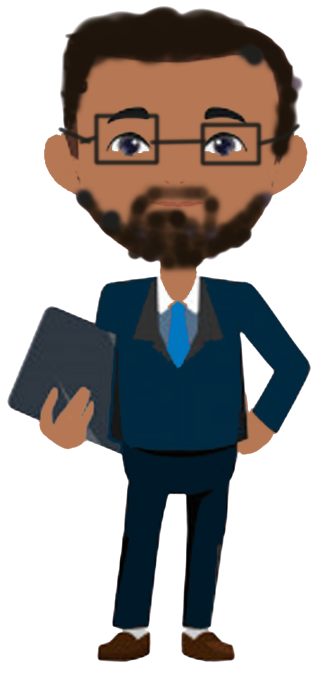
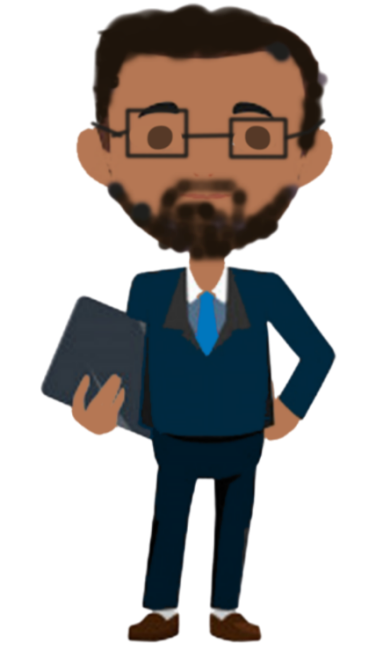
updated quiz + officers

Changed region(s): [[0.0303, 0.0, 0.9394, 1.0]]

diff --git a/impactHack/quiz/FSOTrackQuiz/js/results.js b/impactHack/quiz/FSOTrackQuiz/js/results.js
@@ -7,7 +7,7 @@ const results = {
     "A score above 80% indicates that you are an excellent match for the Consular Affairs track! You'd be a perfect fit on the Consular Affairs team!",
     "Consular officers facilitate adoptions, help evacuate Americans, and combat fraud to protect our borders and fight human trafficking. Consular officers touch people’s lives in important ways, often reassuring families in crisis.",
     "Just like you, Consular Officers excel in picking up local customs as well as cultural, economic and political conditions. Consular officers make prompt, informed decisions that affect the lives of not only Americans abroad but also other foreign citizens. Consular officers also work on keeping Washington up to date on current consular issues which might include fraud trends, visa workloads, or delicate American citizen cases involving victims of crime or child abductions.",
-    "../../assets/blankMan.png"
+    "../../assets/officers/fso_consular.png"
   ],
   "Economic Affairs Officer (FSO)": [
     "An interest score of below 50% indicates that Economic Affairs might not be the best choice for you.",
@@ -16,7 +16,7 @@ const results = {
     "A score above 80% indicates that you are an excellent match for an Economic Affairs position! You'd be a perfect fit on the team!",
     "Economic Officers work with foreign governments and other US Governmental agencies on technology, science, economic, trade, energy, and environmental issues both domestically and overseas.",
     "Just like you, Economic Officers excel at collaborating with a wide variety of government officials, business leaders, international organizations and researchers. They are also very good at developing strong relationships with important economic figures. Economic Officers love spending their time negotiating and maintaining positive economic and trade relations between the US and other countries.",
-        "../../assets/blankMan.png"
+        "../../assets/officers/fso_econ.png"
   ],
   "Management Affairs Officer (FSO)":  [
     "An interest score of below 50% indicates that Management Affairs might not be the best track for you.",
@@ -25,7 +25,7 @@ const results = {
     "A score above 80% indicates that you are an excellent match for a Management Officer! You'd truly be a perfect fit!",
     "Management officers are resourceful, creative, action-oriented “go to” leaders responsible for all embassy operations from real estate to people to budget.",
     "Just like you, Management Officers lead and inspire others. They're able to stay calm in fast-paced, mission critical environments while they solve multidisciplinary problems. Management Affairs Diplomats also encourage professional growth in other staff.",
-        "../../assets/blankMan.png"
+        "../../assets/officers/fso_management.png"
   ],
     "Political Affairs Officer (FSO)":  [
     "An interest score of below 50% indicates that Political Affairs might not be the best place for you.",
@@ -34,7 +34,7 @@ const results = {
     "A score above 80% indicates that you are an excellent match for a Political Affairs position! You'd be a perfect fit on the team!",
     "Political Officers analyze host country political events and must be able to negotiate and communicate effectively with all levels of foreign government officials.",
     "Just like you, Political Officers are able to identify and nurture strong relationships with informed country individuals, who are able to provide thoughtful and sometimes advance information. Political Diplomats excel at reporting and explaining foreign events under time pressure. Political officers enjoy monitoring the political climate of their foreign post.",
-        "../../assets/blankMan.png"
+        "../../assets/officers/fso_political.png"
   ],
   "Public Diplomacy Officer (FSO)":  [
     "An interest score of below 50% indicates that Public Diplomacy might not be the best post for you.",
@@ -43,7 +43,7 @@ const results = {
     "A score above 80% indicates that you are an excellent match for a Public Diplomat position! You'd be a perfect fit on the team!",
     "Public Diplomacy Officers engage, inform, and influence opinion leaders, local non-governmental groups, the next generation of leaders, academics, think tanks, government officials and the full range of civil society in order to promote mutual understanding and support for US policy goals.",
     "Just like you, Public Diplomacy Officers excel at bridging cultures and promoting shared understanding between the US and other nations through strong interpersonal skills. These officers are able to innovatively discover new technologies to better communicate US stances and programs with host country individuals. Public Diplomacy Officers enjoy networking and collaborating with host nation contacts to shape the public message and perceptions about the United States.",
-        "../../assets/blankMan.png"
+        "../../assets/officers/fso_pd.png"
   ],
     "Medical and Health Specialist (FSS)": [
     "An interest score of below 50% indicates that the role of Medical and Health Specialist might not be the best pick for you.",
@@ -51,7 +51,8 @@ const results = {
      "A score between 70% to 80% implies that you show significant interest in the Medical and Health Specialist track! You would make a great Medical and Health Specialist!",
     "A score above 80% indicates that you are an excellent match for the Medical and Health Specialist track! You'd be a perfect fit on the team!",
     "Medical and Health Specialists provide primary medical and psychiatric care to U.S. government employees living abroad as well as and their families.",
-    "Just like you, Medical and Health Specialist make prompt, informed decisions that affect the lives of many people. Medical and Health Specialists have the tenacity to help people out and save lives.",    "../../assets/blankMan.png"
+    "Just like you, Medical and Health Specialist make prompt, informed decisions that affect the lives of many people. Medical and Health Specialists have the tenacity to help people out and save lives.",
+    "../../assets/officers/fss_med.png"
   ],
   "Information Technology Specialist (FSS)": [
     "An interest score of below 50% indicates that IT might not be the best choice for you.",
@@ -60,7 +61,7 @@ const results = {
     "A score above 80% indicates that you are an excellent match for an IT position! You'd be a perfect fit on the Information Technology Specialist team!",
     "Information Technology Specialists operate the Department of State’s worldwide information technology infrastructure, including PC local and wide area networks, telecommunications systems, telephone and UHF/VHF programs, and diplomatic pouch and mail services.",
     "Just like you, IT Specialists are technologically or analytically inclined. They excel when it comes to fixing things up using the power of technology."
-     , "../../assets/blankMan.png"],
+     , "../../assets/officers/fss_it.png"],
   "Engineering Specialist (FSS)":  [
     "An interest score of below 50% indicates that Engineering might not be the best track for you.",
     "A score between 50% to 70% implies that you do show some interest in the Engineering track. You'd be a fair match for an Engineering role!",
@@ -68,7 +69,7 @@ const results = {
     "A score above 80% indicates that you'd be a fantastic Engineering Specialist!",
     "Engineering Specialists facilitate the inner workings of the Department of State’s international operations.",
     "Just like you, Engineering Specialists solve multidisciplinary problems, are action-oriented, and love to fix things!"
-  ,     "../../assets/blankMan.png"],
+  ,     "../../assets/officers/fss_eng.png"],
    "International Programs and English Language Specialist (FSS)":  [
     "An interest score of below 50% indicates that International Programs and English Language Specialist might not be the best role for you.",
     "A score between 50% to 70% implies that you do show some interest in the International Programs and English Language Specialist track. You'd be a fair match for the role!",
@@ -76,7 +77,7 @@ const results = {
     "A score above 80% indicates that you are an excellent match for a International Programs and English Language Specialist position! You'd be a perfect fit on the team!",
     "International Programs and English Language Specialists promote and develop overseas educational opportunities, often in conjunction with consulates or embassies.",
     "Just like you, International Programs and English Language Specialists have a love for language. They have great writing skills and are very organized."
-  ,     "../../assets/blankMan.png"],
+  ,     "../../assets/officers/fss_lang.png"],
   "Law Enforcement and Security Specialist (FSS)":  [
     "An interest score of below 50% indicates that the Law Enforcement and Security Specialization might not be the right for you.",
     "A score between 50% to 70% implies that you do show some interest in the Law Enforcement and Security Specialist track. You'd be a fair match for a Law Enforcement and Security Specialist!",
@@ -84,7 +85,7 @@ const results = {
     "A score above 80% indicates that Law Enforcement and Security Specialist is a perfect match for you! You'd be a perfect fit on the team!",
     "Law Enforcement and Security Specialists ensure the safety and wellbeing of U.S. Department of State facilities and personnel abroad.",
     "Just like you, Law Enforcement and Security Specialists have a drive to ensure the security of things. They are action-oriented and are able to keep their calm in stressful situations."
- ,    "../../assets/blankMan.png" ],
+ ,    "../../assets/officers/fss_security.png" ],
     "Foreign Affairs Officer (CSO)": [
     "An interest score of below 50% indicates that Foreign Affairs might not be the best pick for you.",
     "A score between 50% to 70% implies that you do show some interest in the Foreign Affairs track. You'd be a fair match for a Foreign Affairs role!",
@@ -92,7 +93,7 @@ const results = {
     "A score above 80% indicates that you are an excellent match for the Foreign Affairs track! You'd be a perfect fit on the Foreign Affairs team!",
     "Foreign affairs officers analyse foreign affairs policies and operations, and write reports outlining their analyses in a clear and comprehensible manner. They communicate with parties who benefit from their findings.",
     "Just like you, foreign affairs officers have great writing and communication skills. They are intelligent individuals with a drive to make an impact."
- ,    "../../assets/blankMan.png" ],
+ ,    "../../assets/officers/cso_fa.png" ],
   "Information Technology Management Officer (CSO)": [
     "An interest score of below 50% indicates that IT might not be the best choice for you.",
     "A score between 50% to 70% implies that you do show some interest in the IT Management track. You'd be a fair match for an IT role!",
@@ -100,7 +101,7 @@ const results = {
     "A score above 80% indicates that you are an excellent match for an Information Technology Management position! You'd be a perfect fit on the team!",
     "Information Technology Management Officers manage, supervise, lead, administer, develop, deliver, and support information technology (IT) systems and services.",
     "Just like you, Information Technology Management Officers are organized and are great managers and communicators. They also tend to have an inclination towards technology."
-  ,    "../../assets/blankMan.png"],
+  ,    "../../assets/officers/cso_it.png"],
   "Intelligence Series Officer (CSO)":  [
     "An interest score of below 50% indicates that Intelligence Series Officer might not be the best track for you.",
     "A score between 50% to 70% implies that you do show some interest in the Intelligence Series track. You'd be a fair match for a Intelligence Series role!",
@@ -108,7 +109,7 @@ const results = {
     "A score above 80% indicates that you are an excellent match for an Intelligence Series Officer! You'd truly be a perfect fit!",
     "Intelligence series officers advise on, administer, supervise, or perform work in the collection, analysis, evaluation, interpretation, and dissemination of information in foreign and domestic areas that directly or indirectly affect the national security.",
     "Just like you, Intelligence series officers are resourceful, creative, action-oriented. They tend to have stellar analysis skills and are great at collecting data too. They're also keen to build a secure environment for the Department of State."
- ,    "../../assets/blankMan.png" ],
+ ,    "../../assets/officers/cso_intelligence.png" ],
     "Public Affairs Officer (CSO)":  [
     "An interest score of below 50% indicates that Political Affairs might not be the best place for you.",
     "A score between 50% to 70% implies that you do show some interest in the Political Affairs track. You'd be a fair match for a Political Affairs role!",
@@ -116,7 +117,7 @@ const results = {
     "A score above 80% indicates that you are an excellent match for a Political Affairs position! You'd be a perfect fit on the team!",
     "Public Affairs officers primarily formulate policy and facilitate communication between Federal agencies and members of the public using print and digital media.",
     "Just like you, Public Affairs Officers are thoughtful and have a flair for communication and organization. They might also have great writing and people-skills."
-  ,    "../../assets/blankMan.png"],
+  ,    "../../assets/officers/cso_public.png"],
   "Language Specialist (CSO)":  [
     "An interest score of below 50% indicates that a Language Specialist might not be the best post for you.",
     "A score between 50% to 70% implies that you do show some interest in the Language Specialist track. You'd be a fair match for a Language Specialist role!",
@@ -124,6 +125,6 @@ const results = {
     "A score above 80% indicates that you are an excellent match for the a Language Specialistposition! You'd be a perfect fit on the team!",
     "Language Specialists work in the translation and interpretation of foreign language physical and digital media into English and vice versa.", 
     "Just like you, Language specialists have a love for language. They are dedicated and strive to make an impact with the skills they have."
-  ,    "../../assets/blankMan.png"]
+  ,    "../../assets/officers/cso_lang.png"]
 };
 

diff --git a/impactHack/index.html b/impactHack/index.html
@@ -283,7 +283,7 @@
 
 <!-- 2. Economic affairs -->
   <div id="economic-affairs-container" style="display:none">
-      <iframe  src="https://www.youtube.com/embed/FDyMaaEkUCc" frameborder="0" allow="accelerometer; autoplay; encrypted-media; gyroscope; picture-in-picture" allowfullscreen></iframe>
+     <iframe width="560" height="315" src="https://www.youtube.com/embed/n-AZTohEUjQ" frameborder="0" allow="accelerometer; autoplay; encrypted-media; gyroscope; picture-in-picture" allowfullscreen></iframe>
       <div class="title">Economic Officers</div>
       <div id="economic-affairs-0" class="generalDialogue" style="display:visible">
           <div class="text">
@@ -343,7 +343,7 @@
 
 <!-- 3. Management Officers -->
   <div id="management-container" style="display:none">
-      <iframe  src="https://www.youtube.com/embed/FDyMaaEkUCc" frameborder="0" allow="accelerometer; autoplay; encrypted-media; gyroscope; picture-in-picture" allowfullscreen></iframe>
+      <iframe width="560" height="315" src="https://www.youtube.com/embed/4STYVGvaIYk" frameborder="0" allow="accelerometer; autoplay; encrypted-media; gyroscope; picture-in-picture" allowfullscreen></iframe>
       <div class="title">Management Officers</div>
       <div id="management-0" class="generalDialogue" style="display:visible">
           <div class="text">
@@ -429,7 +429,7 @@
 
     <!-- 4. Political Affairs Officers -->
   <div id="political-affairs-container" style="display:none">
-      <iframe  src="https://www.youtube.com/embed/FDyMaaEkUCc" frameborder="0" allow="accelerometer; autoplay; encrypted-media; gyroscope; picture-in-picture" allowfullscreen></iframe>
+     <iframe width="560" height="315" src="https://www.youtube.com/embed/KmPgCtfdBmM" frameborder="0" allow="accelerometer; autoplay; encrypted-media; gyroscope; picture-in-picture" allowfullscreen></iframe>
       <div class="title">Political Affairs Officers</div>
       <div id="political-affairs-container-0" class="generalDialogue" style="display:visible">
           <div class="text">
@@ -515,7 +515,7 @@
   
       <!-- 5. Public Diplomacy Officers -->
   <div id="public-diplomacy-container" style="display:none">
-      <iframe  src="https://www.youtube.com/embed/FDyMaaEkUCc" frameborder="0" allow="accelerometer; autoplay; encrypted-media; gyroscope; picture-in-picture" allowfullscreen></iframe>
+      <iframe width="560" height="315" src="https://www.youtube.com/embed/vHIezLKes34" frameborder="0" allow="accelerometer; autoplay; encrypted-media; gyroscope; picture-in-picture" allowfullscreen></iframe>
       <div class="title">Public Diplomacy Officers</div>
       <div id="public-diplomacy-container-0" class="generalDialogue" style="display:visible">
           <div class="text">
@@ -603,7 +603,7 @@
 
     <!-- 6. Medical and Health Specialists -->
   <div id="medical-and-health-specialist-container" style="display:none">
-      <iframe  src="https://www.youtube.com/embed/FDyMaaEkUCc" frameborder="0" allow="accelerometer; autoplay; encrypted-media; gyroscope; picture-in-picture" allowfullscreen></iframe>
+      <iframe width="560" height="315" src="https://www.youtube.com/embed/nZ4yNY6-RG4" frameborder="0" allow="accelerometer; autoplay; encrypted-media; gyroscope; picture-in-picture" allowfullscreen></iframe>
       <div class="title">Medical and Health Specialists</div>
       <div id="medical-and-health-specialist-container-0" class="generalDialogue" style="display:visible">
           <div class="text">
@@ -639,7 +639,7 @@
   
   <!-- 7. Information Technology Specialist -->
   <div id="information-technology-specialist-container" style="display:none">
-      <iframe  src="https://www.youtube.com/embed/FDyMaaEkUCc" frameborder="0" allow="accelerometer; autoplay; encrypted-media; gyroscope; picture-in-picture" allowfullscreen></iframe>
+  <iframe width="560" height="315" src="https://www.youtube.com/embed/fhzwFOXz2Yo" frameborder="0" allow="accelerometer; autoplay; encrypted-media; gyroscope; picture-in-picture" allowfullscreen></iframe>
       <div class="title">Information Technology Specialists</div>
       <div id="information-technology-specialist-container-0" class="generalDialogue" style="display:visible">
           <div class="text">
@@ -669,7 +669,7 @@
 
   <!-- 8. Engineering Specialist -->
   <div id="engineering-specialist-container" style="display:none">
-      <iframe  src="https://www.youtube.com/embed/FDyMaaEkUCc" frameborder="0" allow="accelerometer; autoplay; encrypted-media; gyroscope; picture-in-picture" allowfullscreen></iframe>
+      <iframe width="560" height="315" src="https://www.youtube.com/embed/Y9UWzHKUNms" frameborder="0" allow="accelerometer; autoplay; encrypted-media; gyroscope; picture-in-picture" allowfullscreen></iframe>
       <div class="title">Engineering Specialist</div>
       <div id="engineering-specialist-container-0" class="generalDialogue" style="display:visible">
           <div class="text">
@@ -700,7 +700,6 @@
 
   <!-- 9. International Programs and English Language Speicalists -->
   <div id="international-programs-and-english-language-container" style="display:none">
-      <iframe  src="https://www.youtube.com/embed/FDyMaaEkUCc" frameborder="0" allow="accelerometer; autoplay; encrypted-media; gyroscope; picture-in-picture" allowfullscreen></iframe>
       <div class="title">Intl. Programs and English Lang. Specialists</div>
       <div id="international-programs-and-english-language-container-0" class="generalDialogue" style="display:visible">
           <div class="text">
@@ -751,7 +750,7 @@
 
     <!-- 10. Law Enforcement and Security Specialists -->
   <div id="law-enforcement-and-security-specialists-container" style="display:none">
-      <iframe  src="https://www.youtube.com/embed/FDyMaaEkUCc" frameborder="0" allow="accelerometer; autoplay; encrypted-media; gyroscope; picture-in-picture" allowfullscreen></iframe>
+      <iframe width="560" height="315" src="https://www.youtube.com/embed/NdlTm4q1s_4" frameborder="0" allow="accelerometer; autoplay; encrypted-media; gyroscope; picture-in-picture" allowfullscreen></iframe>
       <div class="title">Law Enforcement and Security Specialists</div>
       <div id="law-enforcement-and-security-specialists-container-0" class="generalDialogue" style="display:visible">
           <div class="text">
@@ -799,7 +798,7 @@
 
     <!-- 11. Foreign Affairs Officers -->
   <div id="foreign-affairs-container" style="display:none">
-      <iframe  src="https://www.youtube.com/embed/FDyMaaEkUCc" frameborder="0" allow="accelerometer; autoplay; encrypted-media; gyroscope; picture-in-picture" allowfullscreen></iframe>
+      <iframe width="560" height="315" src="https://www.youtube.com/embed/KRtu9iacVW4" frameborder="0" allow="accelerometer; autoplay; encrypted-media; gyroscope; picture-in-picture" allowfullscreen></iframe>
       <div class="title">Foreign Affairs Officers</div>
       <div id="foreign-affairs-container-0" class="generalDialogue" style="display:visible">
           <div class="text">
@@ -848,7 +847,7 @@
 
     <!-- 12. Information Technology Management Officer -->
   <div id="information-technology-management-container" style="display:none">
-      <iframe  src="https://www.youtube.com/embed/FDyMaaEkUCc" frameborder="0" allow="accelerometer; autoplay; encrypted-media; gyroscope; picture-in-picture" allowfullscreen></iframe>
+     <iframe width="560" height="315" src="https://www.youtube.com/embed/wNA92Er9cNM" frameborder="0" allow="accelerometer; autoplay; encrypted-media; gyroscope; picture-in-picture" allowfullscreen></iframe>
       <div class="title">Information Technology Management Officers</div>
       <div id="information-technology-management-container-0" class="generalDialogue" style="display:visible">
           <div class="text">
@@ -885,7 +884,7 @@
 
     <!-- 13. Intelligence Series Officers -->
   <div id="intelligence-series-officer-container" style="display:none">
-      <iframe  src="https://www.youtube.com/embed/FDyMaaEkUCc" frameborder="0" allow="accelerometer; autoplay; encrypted-media; gyroscope; picture-in-picture" allowfullscreen></iframe>
+     
       <div class="title">Intelligence Series Officers</div>
       <div id="intelligence-series-officer-container-0" class="generalDialogue" style="display:visible">
           <div class="text">
@@ -926,7 +925,7 @@
 
     <!-- 14. Public Affairs Officers -->
   <div id="public-affairs-container" style="display:none">
-      <iframe  src="https://www.youtube.com/embed/FDyMaaEkUCc" frameborder="0" allow="accelerometer; autoplay; encrypted-media; gyroscope; picture-in-picture" allowfullscreen></iframe>
+      <iframe width="560" height="315" src="https://www.youtube.com/embed/OdPpt5ZTULY" frameborder="0" allow="accelerometer; autoplay; encrypted-media; gyroscope; picture-in-picture" allowfullscreen></iframe>
       <div class="title">Public Affairs Officers</div>
       <div id="public-affairs-container-0" class="generalDialogue" style="display:visible">
           <div class="text">
@@ -963,7 +962,6 @@
 
     <!-- 15. Language Specialists -->
   <div id="language-specialists-container" style="display:none">
-      <iframe  src="https://www.youtube.com/embed/FDyMaaEkUCc" frameborder="0" allow="accelerometer; autoplay; encrypted-media; gyroscope; picture-in-picture" allowfullscreen></iframe>
       <div class="title">Language Specialists</div>
       <div id="language-specialists-container-0" class="generalDialogue" style="display:visible">
           <div class="text">

diff --git a/impactHack/js/roomElems.js b/impactHack/js/roomElems.js
@@ -24,15 +24,6 @@ var parameters, viewer, radius, button, position, infospot, timerId, easingItem,
   radius = edgeLength / 2;
 
 
-//"https://michelleFae.github.io/impactHack/assets/icons/globe.gif"
-//5000.00, -911.25, 20.85
-
-  // /* MAIN - Game and quiz info spots 256x256*/
-  // linkPanoInfoSpotWtInfo(new THREE.Vector3(-95.41, -832.33, -5000.00), 'game-container', true,  blackRoom, "Digital Diplomat Go", "https://michelleFae.github.io/impactHack/assets/icons/wydq.png" , radius / 2.5);
- 
-  
-  // infospotsList.forEach(addInfoSpotFunc);
-
   /* Insert Info Spots */
 
   /* Main Room Items */
@@ -64,7 +55,6 @@ var parameters, viewer, radius, button, position, infospot, timerId, easingItem,
   linkPanoInfoSpotWtInfo(new THREE.Vector3(2548.13, -1483.93, 5000.00),"public-diplomacy-container" , true, blueRoom, "Public Diplomacy Officers", "https://michelleFae.github.io/impactHack/assets/officers/fso_pd.png", radius/0.8);
 
 
-//2548.13, -1483.93, 5000.00
 
   /* FSS Room Items (red) */
   linkPanoInfoSpotWtInfo(new THREE.Vector3(68.11, -183.40, 5000.00),"fss-dim-container" , true, redRoom, "FSS Dimensions", "https://michelleFae.github.io/impactHack/assets/icons/dimensionIcons/redPinkDims.png" , radius / 2);
